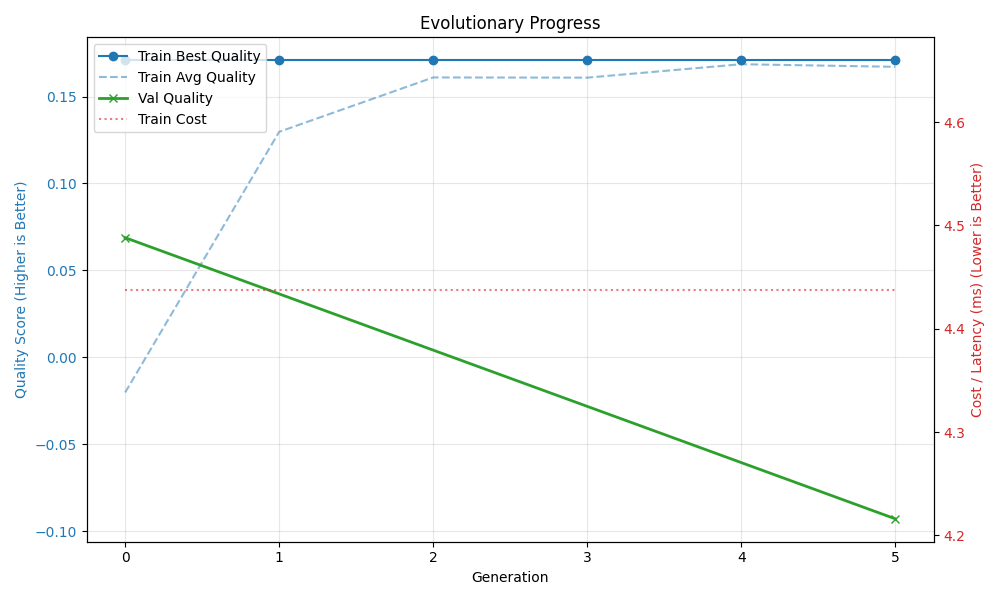
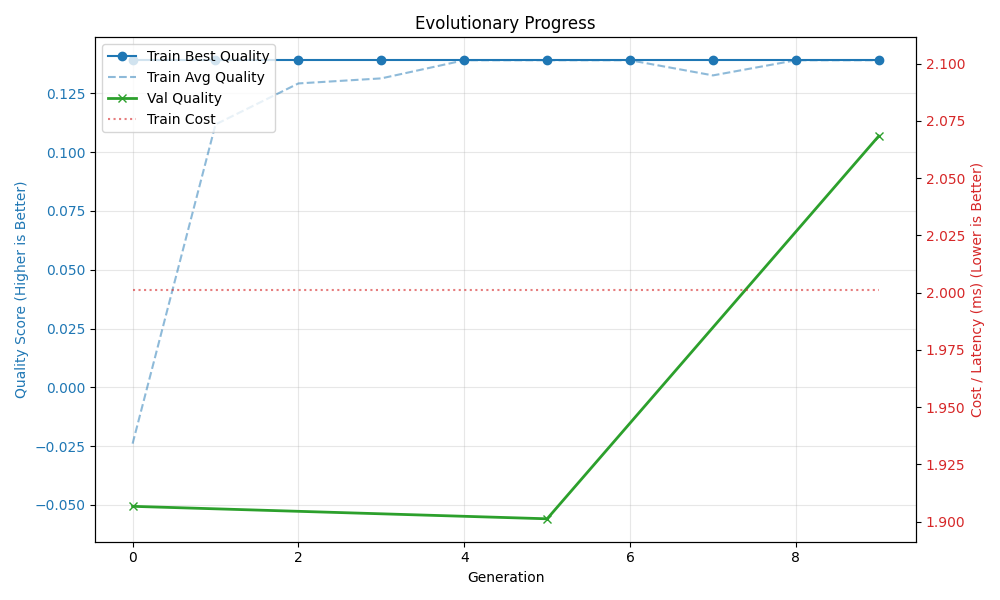
save a commit before full run, gemini-cli will take over for this

diff --git a/swarm_rag_module/swarm_rag/evolution/execution/strategies.py b/swarm_rag_module/swarm_rag/evolution/execution/strategies.py
@@ -4,7 +4,7 @@ import random
 import numpy as np
 
 from ..types.config import EvolutionContext
-from ..types.expressions import ExpressionEvolution
+from ..types.expressions import ExpressionEvolution, ExpressionNode
 from ...interfaces.registry import _MutationRegistry, _CrossoverRegistry, _SelectionRegistry, _CreationRegistry
 from ...interfaces.enums import GeneticKey
 from ..types.genome import Genome, DEFAULT_PARAMS
@@ -356,29 +356,39 @@ class GeneticStrategies:
         genome.mutation_rate = max(0.01, min(0.5, genome.mutation_rate))
         rate = genome.mutation_rate * ctx.global_mutation_multiplier
 
-        # Parameter Mutation (Numeric Jitter)
+        # 1. Parameter Mutation (Smart Jitter)
         for key, val in genome.params.items():
             if random.random() < rate:
-                if isinstance(val, int):
-                    # Integer Jitter (+/- 1 to 3)
-                    delta = random.randint(-2, 2)
-                    new_val = max(1, val + delta)
-                    genome.params[key] = new_val
-                elif isinstance(val, float):
-                    # Float Jitter (+/- 10%)
-                    new_val = val * random.uniform(0.9, 1.1)
-                    # Clamp to reasonable bounds (0-1 for decay usually)
-                    if 0.0 < val < 1.0: 
-                        new_val = max(0.01, min(0.999, new_val))
-                    genome.params[key] = new_val
+                # 80% chance: Fine-tuning (Small Gaussian jitter)
+                if random.random() < 0.8:
+                    if isinstance(val, int):
+                        delta = int(round(random.gauss(0, 1.5))) # +/- 1 or 2 usually
+                        new_val = max(1, val + delta)
+                        genome.params[key] = new_val
+                    elif isinstance(val, float):
+                        # +/- 10% relative change
+                        factor = random.gauss(1.0, 0.1)
+                        new_val = val * factor
+                        # Clamp to 0.001 - 1.0 (typical for most floats here)
+                        genome.params[key] = max(0.001, min(0.999, new_val))
+                
+                # 20% chance: Exploration (Re-sample or Large Jump)
+                else:
+                     ranges = ctx.config.get('param_ranges', {})
+                     if key in ranges:
+                         min_v, max_v = ranges[key]
+                         if isinstance(min_v, int):
+                             genome.params[key] = random.randint(min_v, max_v)
+                         else:
+                             genome.params[key] = random.uniform(min_v, max_v)
 
-        # Group Ratio Mutation
+        # 2. Group Ratio Mutation
         for key, val in genome.group_ratios.items():
             if random.random() < rate:
                 # Jitter ratio
                 genome.group_ratios[key] = max(0.05, min(1.0, val * random.uniform(0.8, 1.2)))
 
-        # Strategy Tree Mutation
+        # 3. Strategy Tree Mutation
         for key, tree in genome.strategies.items():
             if random.random() < rate:
                 feature_list = ctx.expression_features.get(key)
@@ -391,13 +401,33 @@ class GeneticStrategies:
                     elif key == "ranking":
                         feature_list = ctx.expression_features.get("ranking")
 
-                mutated_tree = ExpressionEvolution.mutate_tree(
-                    tree,
-                    features=feature_list,
-                    mutation_rate=rate,
-                    inplace=True 
-                )
-                genome.strategies[key] = mutated_tree
+                # Structural Mutations
+                mut_choice = random.random()
+                
+                if mut_choice < 0.1 and tree.type == 'op':
+                    # Hoist: Replace current node with one of its children (Simplification)
+                    if tree.children:
+                        genome.strategies[key] = random.choice(tree.children).copy()
+                
+                elif mut_choice < 0.2:
+                    # Wrapper: Wrap current tree in a unary function (Complexity)
+                    func = random.choice(['log', 'sigmoid', 'tanh'])
+                    new_root = ExpressionNode(type='func', value=func, children=[tree.copy()])
+                    genome.strategies[key] = new_root
+
+                else:
+                    # Standard Node/Subtree Mutation
+                    mutated_tree = ExpressionEvolution.mutate_tree(
+                        tree,
+                        features=feature_list,
+                        mutation_rate=rate,
+                        inplace=True 
+                    )
+                    genome.strategies[key] = mutated_tree
+                
+                # Occasional Simplification/Pruning to prevent bloat
+                if random.random() < 0.1:
+                    genome.strategies[key] = ExpressionEvolution.simplify_tree(genome.strategies[key], max_size=30)
 
         genome.clear_cache()
         return genome

diff --git a/swarm_rag_module/swarm_rag/evolution/types/genome.py b/swarm_rag_module/swarm_rag/evolution/types/genome.py
@@ -134,7 +134,7 @@ class Genome:
             
         return {**self.params}
     
-    def copy(self) -> 'Genome':
+    def copy(self, new_id: str = None) -> 'Genome':
         """
         Deep copy ensures mutations don't bleed into parents/elites.
         """
@@ -144,9 +144,11 @@ class Genome:
             stability_score=self.fitness.stability_score,
             cost_score=self.fitness.cost_score
         )
+        
+        target_id = new_id if new_id is not None else f"{self.id}_copy"
 
         return Genome(
-            id=f"{self.id}_copy",
+            id=target_id,
             mutation_rate=self.mutation_rate,
             params=self.params.copy(),
             group_ratios=self.group_ratios.copy(),

diff --git a/swarm_rag_module/swarm_rag/evolution/execution/tracker.py b/swarm_rag_module/swarm_rag/evolution/execution/tracker.py
@@ -91,7 +91,7 @@ class ProgressTracker:
         if "train_best_cost" in df.columns:
             ax2 = ax1.twinx()  # instantiate a second axes that shares the same x-axis
             color = 'tab:red'
-            ax2.set_ylabel('Cost / Latency (ms) (Lower is Better)', color=color)
+            ax2.set_ylabel('Cost / Latency (s) (Lower is Better)', color=color)
             ax2.plot(df["generation"], df["train_best_cost"], label="Train Cost", color=color, linestyle=":", alpha=0.6)
             ax2.tick_params(axis='y', labelcolor=color)
 

diff --git a/swarm_rag_module/swarm_rag/evolution/engine.py b/swarm_rag_module/swarm_rag/evolution/engine.py
@@ -157,7 +157,7 @@ class EvolutionEngine:
             avg_qual = np.mean([g.fitness.quality_score for g in population])
             if best_genome is None or current_best.fitness > best_genome.fitness:
                 logger.info(f"Gen {gen}: New Best Found! Score: {current_best.fitness.quality_score:.4f}")
-                best_genome = current_best.copy()
+                best_genome = current_best.copy(new_id=current_best.id)
 
             pbar.set_postfix({
                 "Best": f"{current_best.fitness.quality_score:.4f}",
